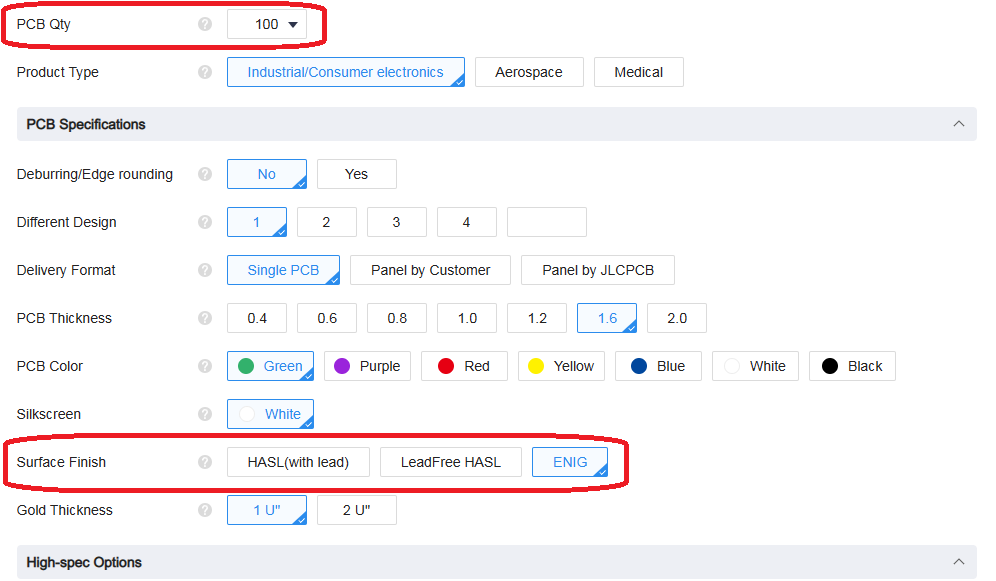
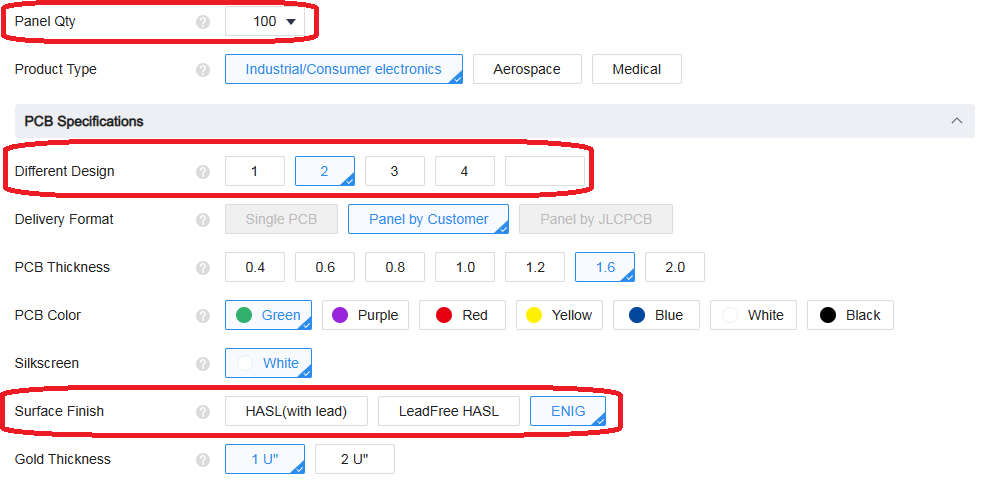
trigger_paddle_update

diff --git a/For_Makers/Phob2_Ordering_Guide.md b/For_Makers/Phob2_Ordering_Guide.md
@@ -102,7 +102,7 @@ Click "Order Now" on JLCPCB, make sure you are set to "Standard PCB/PCBA" tab, c
 ![TRIGGER_BOARD](https://github.com/PhobGCC/PhobGCC-doc/blob/main/For_Makers/Phob_Ordering_Guide_Images/trigger_board.PNG?raw=true)
 
 Once you've checked that the size is set to 9.7x41.72mm, you can progress with configuring it.
-The recommended settings are the defaults, setting your board quantity and setting the Surface Finish to ENIG, as seen below
+The recommended settings are the defaults, setting your board quantity, setting "Different Design" to 2, and setting the Surface Finish to ENIG, as seen below:
 
 **NOTE: IF YOU ORDER MORE THAN 30, THE OPTION FOR DEBURRING/EDGE-ROUNDING APPEARS. IT'S RECOMMENDED TO ENABLE IT!**
 
